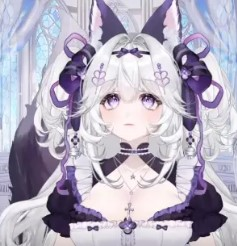
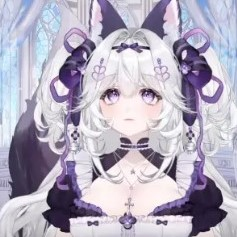
change

diff --git a/index.css b/index.css
@@ -117,9 +117,10 @@ body {
 
 
   #avatar {
-    width: 170px;
-    height: 170px;
-    margin-top: -5vh;
+    width: 100%;
+    max-width: 200px;
+    height: auto;
+    margin-top: 1vh;
   }
 
   #main {
@@ -128,12 +129,13 @@ body {
   }
 
   #image {
-    position: right;
+    position: center;
   }
 
   #body {
     position: left;
     margin-left: 100px;
     margin-right: 100px;
+    margin-bottom: 50px
   }
 
